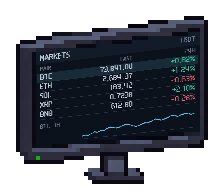
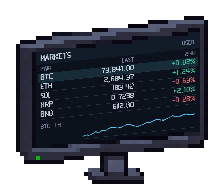
Publish aligned monitors and compact 27-seat office

diff --git a/btcoffice/art/furniture/trading-room/index.html b/btcoffice/art/furniture/trading-room/index.html
@@ -20,15 +20,15 @@
 <h2>분리 레이어</h2><p class="section-note">같은 가구의 부품들은 동일한 캔버스와 기준점을 사용합니다. Full은 확인용 합성본이므로 부품과 동시에 그리지 않습니다.</p><div class="grid" id="parts"></div>
 <footer>분류: 기존 furnitures → Trading Room · 생성 원본: source/ · 배치/화면 영역: metadata/ · 게임 방 연결과 북향 착석 동작은 별도 작업</footer>
 </main>
-<script src="assets.js?v=20261113-corners"></script>
-<script src="trading-screens.js?v=20261113-corners"></script>
-<script src="trading-rig.js?v=20261113-corners"></script>
+<script src="assets.js?v=20261113-parallel"></script>
+<script src="trading-screens.js?v=20261113-parallel"></script>
+<script src="trading-rig.js?v=20261113-parallel"></script>
 <script>
 'use strict';
 const base='./', images=new Map(),data=window.TRADING_ROOM_ASSETS, canvas=document.getElementById('assembly'),ctx=canvas.getContext('2d');
 const titles={'Desk_Trading_N_Full':'트레이딩 책상','Chair_Trading_N_Full':'북향 작업 의자','Chair_Visitor_N_Full':'북향 관전 의자','Monitor_Trading_Front_Housing':'정면 모니터','Monitor_Trading_Wide_Front_Housing':'와이드 모니터','Monitor_Trading_Angled_SE_Housing':'오른쪽 측면 모니터','Monitor_Trading_Angled_SW_Housing':'왼쪽 측면 모니터','Keyboard_Trading_N':'트레이딩 키보드','Mouse_Trading_N':'마우스 · 기존 리소스','Mousepad_Trading':'마우스패드 · 기존 리소스','NewsWall_Frame':'뉴스 전광판'};
 const screenCache=new Map(),textureCache=new Map();
-function card(a){let name=a.file.split('/').pop().replace('.png','');const article=document.createElement('article');article.className='asset';const href=encodeURI(base+a.file)+'?v=20261113-corners';article.innerHTML=`<a class="thumb" href="${href}" target="_blank"><img src="${href}" style="width:${Math.min(a.width*2,260)}px" alt="${name}"></a><div class="info"><strong>${titles[name]||titles[name.replace('_Full','_Housing')]||(name==='NewsWall_Full'?'뉴스 전광판':a.layer)||name}</strong><code>${name}</code><span>${a.width} × ${a.height}</span> · <a href="${href}" download>PNG</a></div>`;return article;}
+function card(a){let name=a.file.split('/').pop().replace('.png','');const article=document.createElement('article');article.className='asset';const href=encodeURI(base+a.file)+'?v=20261113-parallel';article.innerHTML=`<a class="thumb" href="${href}" target="_blank"><img src="${href}" style="width:${Math.min(a.width*2,260)}px" alt="${name}"></a><div class="info"><strong>${titles[name]||titles[name.replace('_Full','_Housing')]||(name==='NewsWall_Full'?'뉴스 전광판':a.layer)||name}</strong><code>${name}</code><span>${a.width} × ${a.height}</span> · <a href="${href}" download>PNG</a></div>`;return article;}
 for(const a of data.assets)(a.origin?document.getElementById('assets'):document.getElementById('parts')).append(card(a));
 function draw(file,x,y){const img=images.get(file);if(img)ctx.drawImage(img,x,y);}
 function texture(kind,asset){const w=['chart','depth'].includes(kind)?(asset.width>=90?680:408):320,h=['chart','depth'].includes(kind)?216:224,key=[kind,w,h].join(':');if(!textureCache.has(key))textureCache.set(key,TradingScreens.createTexture(kind,w,h));return textureCache.get(key);}
@@ -44,7 +44,7 @@ if(document.getElementById('reference').checked){const im=images.get('character'
 if(showChair){draw('chairs/Chair_Trading_N_Backrest.png',chairX,chairY);draw('chairs/Chair_Trading_N_Armrests.png',chairX,chairY);}detail();}
 document.querySelectorAll('select,input').forEach(e=>e.addEventListener('change',render));document.getElementById('background').onclick=function(){const light=document.getElementById('stage').classList.toggle('light');this.setAttribute('aria-pressed',light);this.textContent=light?'어두운 배경':'밝은 배경';};
 const loads=data.assets.map(a=>({key:a.file,url:base+a.file}));loads.push({key:TradingRig.rack.file,url:base+TradingRig.rack.file});loads.push({key:'character',url:'reference/CH01_North_Standing_Base.png'});
-Promise.all([document.fonts.ready,...loads.map(a=>new Promise((resolve,reject)=>{const img=new Image();img.onload=()=>{images.set(a.key,img);resolve()};img.onerror=()=>reject(Error(a.url));img.src=encodeURI(a.url)+'?v=20261113-corners'}))]).then(()=>{render();for(const a of data.assets.filter(a=>a.file.startsWith('monitors/')&&a.file.endsWith('_Full.png'))){const file=a.file.replace('_Full.png','_Housing.png'),kind=file.includes('_SE_')?'book':file.includes('_SW_')?'markets':'chart',picture=monitorCanvas(file,kind,4),img=document.querySelector(`img[alt="${a.file.split('/').pop().replace('.png','')}"]`);if(img){img.src=picture.toDataURL();const link=img.closest('a');link.href=img.src;link.download=a.file.split('/').pop().replace('_Full.png','_Display.png');}}rigCards();window.__artReady=true}).catch(e=>{console.error(e);window.__artError=String(e)});
+Promise.all([document.fonts.ready,...loads.map(a=>new Promise((resolve,reject)=>{const img=new Image();img.onload=()=>{images.set(a.key,img);resolve()};img.onerror=()=>reject(Error(a.url));img.src=encodeURI(a.url)+'?v=20261113-parallel'}))]).then(()=>{render();for(const a of data.assets.filter(a=>a.file.startsWith('monitors/')&&a.file.endsWith('_Full.png'))){const file=a.file.replace('_Full.png','_Housing.png'),kind=file.includes('_SE_')?'book':file.includes('_SW_')?'markets':'chart',picture=monitorCanvas(file,kind,4),img=document.querySelector(`img[alt="${a.file.split('/').pop().replace('.png','')}"]`);if(img){img.src=picture.toDataURL();const link=img.closest('a');link.href=img.src;link.download=a.file.split('/').pop().replace('_Full.png','_Display.png');}}rigCards();window.__artReady=true}).catch(e=>{console.error(e);window.__artError=String(e)});
 function rigCanvas(scale=4,blank=false){const out=document.createElement('canvas');out.width=256*scale;out.height=112*scale;const c=out.getContext('2d');c.imageSmoothingEnabled=false;c.drawImage(images.get(TradingRig.rack.file),0,0,out.width,out.height);for(const slot of TradingRig.slots){const a=data.assets.find(a=>a.file===slot.file);c.drawImage(monitorCanvas(slot.file,slot.kind,scale,blank,true),slot.position[0]*scale,(slot.position[1]+36)*scale);}return out;}
 function rigCards(){const grid=document.getElementById('rig-assets');for(const [title,picture,name]of [['6대 · 차트 포함',rigCanvas(4),'MonitorArray_3x2_Display.png'],['6대 · 빈 화면',rigCanvas(1,true),'MonitorArray_3x2_Blank.png']]){const a=document.createElement('article');a.className='asset';const url=picture.toDataURL();a.innerHTML=`<a class="thumb" href="${url}" download="${name}"><img src="${url}" alt="${title}"></a><div class="info"><strong>${title}</strong><code>${name}</code><a href="${url}" download="${name}">PNG 저장</a></div>`;grid.append(a);}const a=document.createElement('article');a.className='asset';a.innerHTML=`<a class="thumb" href="${encodeURI(base+TradingRig.rack.file)}"><img src="${encodeURI(base+TradingRig.rack.file)}" alt="공용 거치대"></a><div class="info"><strong>3열 × 2단 공용 거치대</strong><code>MonitorRack_3x2</code><span>256 × 112</span></div>`;grid.append(a);}
 window.TradingRoomPreview={monitorCanvas,texture,images,data,rigCanvas};

diff --git a/btcoffice/art/furniture/trading-room/trading-screens.js b/btcoffice/art/furniture/trading-room/trading-screens.js
@@ -104,8 +104,14 @@
   }
   function inverse(m){const[a,b,c,d,e,f,g,h,i]=m,det=a*(e*i-f*h)-b*(d*i-f*g)+c*(d*h-e*g);if(Math.abs(det)<1e-12)throw Error('Singular screen transform');return[(e*i-f*h)/det,(c*h-b*i)/det,(b*f-c*e)/det,(f*g-d*i)/det,(a*i-c*g)/det,(c*d-a*f)/det,(d*h-e*g)/det,(b*g-a*h)/det,(a*e-b*d)/det];}
   function point(m,x,y){const den=m[6]*x+m[7]*y+m[8];return[(m[0]*x+m[1]*y+m[2])/den,(m[3]*x+m[4]*y+m[5])/den];}
+  // The painted top bezel tapers more than the bottom. Keep all display rows
+  // parallel to the lower bezel; the pixel mask still defines the full opening.
+  function contentQuad(q){
+    const [tl,tr,br,bl]=q,height=Math.min(bl[1]-tl[1],br[1]-tr[1]);
+    return [[bl[0],bl[1]-height],[br[0],br[1]-height],[...br],[...bl]];
+  }
   function project(texture,asset,mask,scale){
-    const out=makeCanvas(asset.width*scale,asset.height*scale),c=out.getContext('2d'),pixels=c.createImageData(out.width,out.height),input=texture.getContext('2d').getImageData(0,0,texture.width,texture.height),map=inverse(homography(asset.screen_quad));
+    const out=makeCanvas(asset.width*scale,asset.height*scale),c=out.getContext('2d'),pixels=c.createImageData(out.width,out.height),input=texture.getContext('2d').getImageData(0,0,texture.width,texture.height),map=inverse(homography(contentQuad(asset.screen_quad)));
     for(let y=0;y<out.height;y++)for(let x=0;x<out.width;x++){
       const[px,py]=point(map,(x+.5)/scale,(y+.5)/scale),u=Math.max(0,Math.min(1,px)),v=Math.max(0,Math.min(1,py));
       const sx=Math.min(texture.width-1,Math.floor(u*texture.width)),sy=Math.min(texture.height-1,Math.floor(v*texture.height)),from=(sy*texture.width+sx)*4,to=(y*out.width+x)*4;
@@ -113,6 +119,6 @@
     }
     c.putImageData(pixels,0,0);c.imageSmoothingEnabled=false;c.globalCompositeOperation='destination-in';c.drawImage(mask,0,0,out.width,out.height);c.globalCompositeOperation='source-over';return out;
   }
-  const api={candles,closes,ma7,ma25,latest,createTexture,homography,inverse,point,project};
+  const api={candles,closes,ma7,ma25,latest,createTexture,homography,inverse,point,contentQuad,project};
   root.TradingScreens=api;if(typeof module!=='undefined')module.exports=api;
 })(globalThis);

diff --git a/btcoffice/game/index.html b/btcoffice/game/index.html
@@ -94,7 +94,7 @@ body {
 <meta name="apple-mobile-web-app-capable" content="yes">
 <meta name="apple-mobile-web-app-title" content="BTC OFFICE">
 <meta name="theme-color" content="#101914">
-	<meta name="btc-build-id" content="20261113-a3e9f37c45">
+	<meta name="btc-build-id" content="20261113-50fabe52cf">
 <script src="./config.js"></script>
 </head>
 	<body>
@@ -107,14 +107,14 @@ body {
 		</noscript>
 
 		<div id="status">
-			<img id="status-splash" class="show-image--true fullsize--true use-filter--true" src="./game-20261113-a3e9f37c45.png" alt="">
+			<img id="status-splash" class="show-image--true fullsize--true use-filter--true" src="./game-20261113-50fabe52cf.png" alt="">
 			<progress id="status-progress"></progress>
 			<div id="status-notice"></div>
 		</div>
 
-		<script src="./game-20261113-a3e9f37c45.js"></script>
+		<script src="./game-20261113-50fabe52cf.js"></script>
 		<script>
-const GODOT_CONFIG = {"args":[],"canvasResizePolicy":2,"emscriptenPoolSize":8,"ensureCrossOriginIsolationHeaders":true,"executable":"game-20261113-a3e9f37c45","experimentalVK":false,"fileSizes":{"game-20261113-a3e9f37c45.pck":34108264,"game-20261113-a3e9f37c45.wasm":39514754},"focusCanvas":true,"gdextensionLibs":[],"godotPoolSize":4};
+const GODOT_CONFIG = {"args":[],"canvasResizePolicy":2,"emscriptenPoolSize":8,"ensureCrossOriginIsolationHeaders":true,"executable":"game-20261113-50fabe52cf","experimentalVK":false,"fileSizes":{"game-20261113-50fabe52cf.pck":34137176,"game-20261113-50fabe52cf.wasm":39514754},"focusCanvas":true,"gdextensionLibs":[],"godotPoolSize":4};
 const GODOT_THREADS_ENABLED = false;
 const engine = new Engine(GODOT_CONFIG);
 
